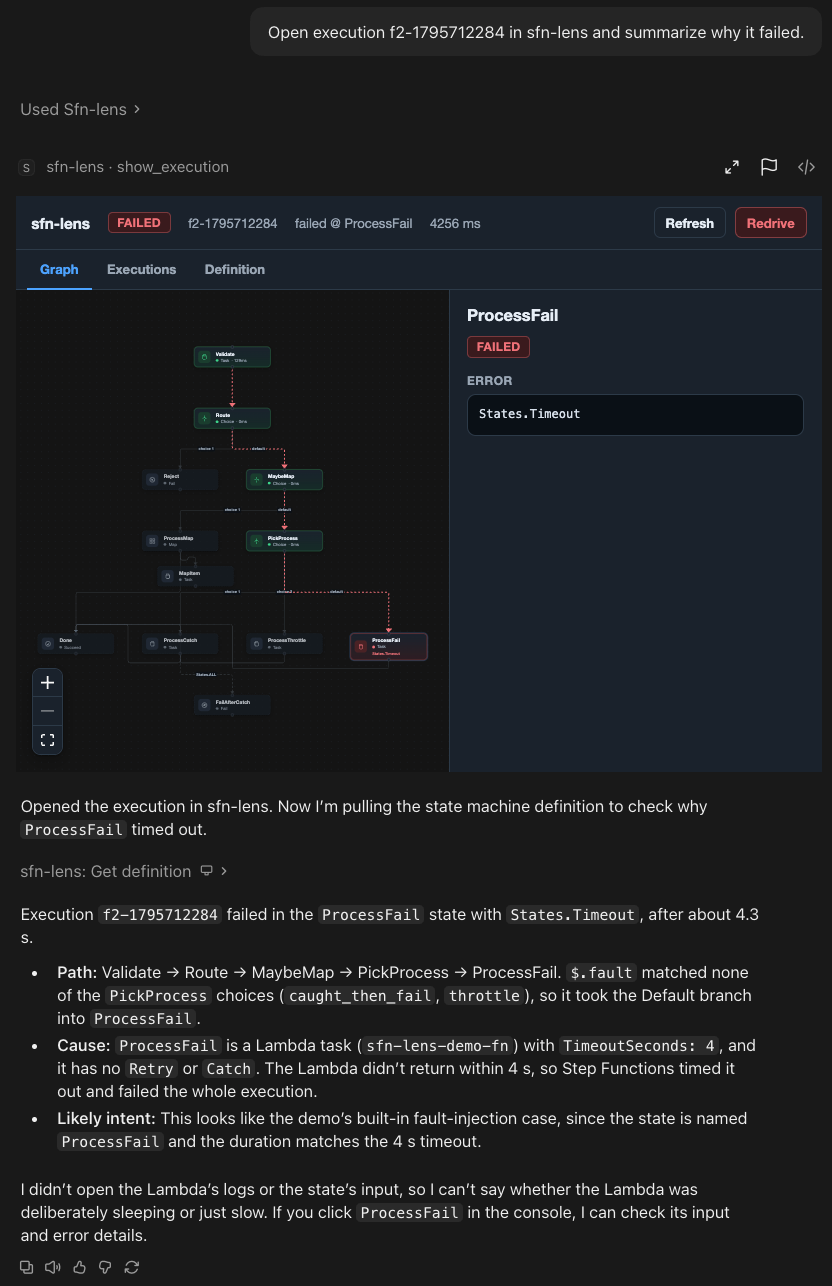
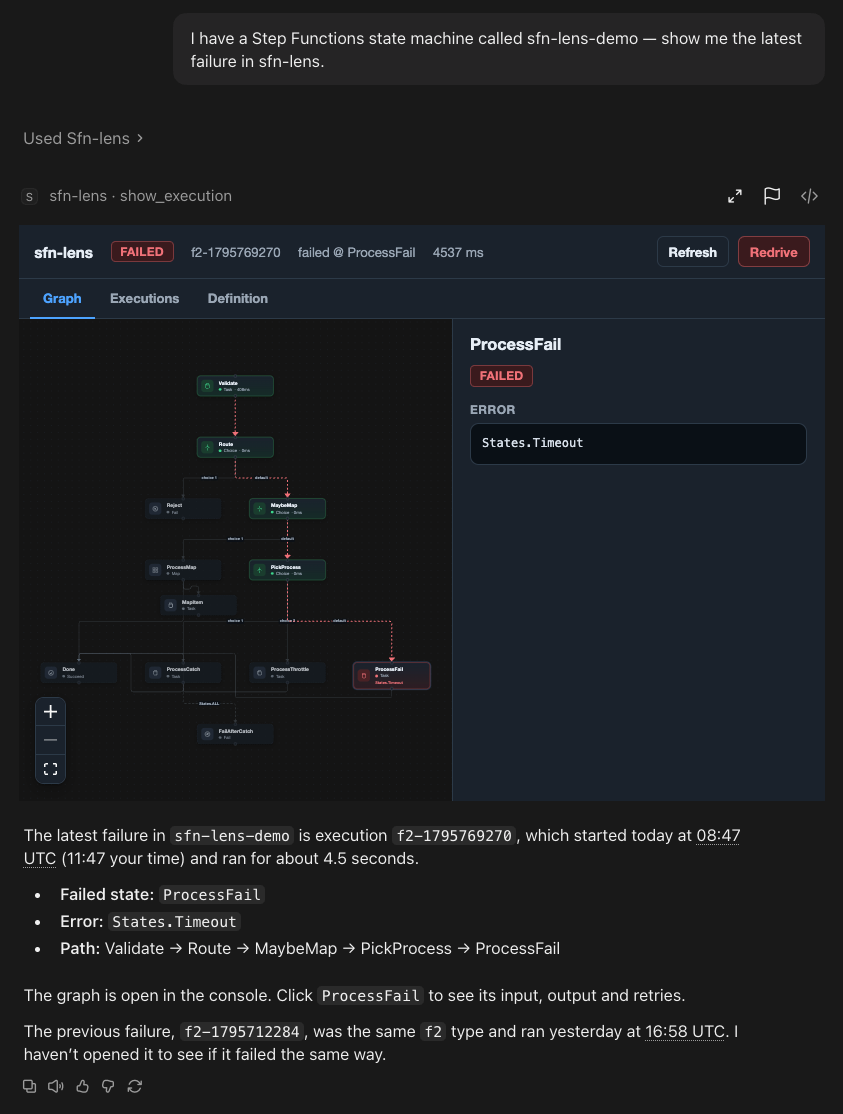
Use a natural latest-failure prompt for the graph screenshot.
README sample ask matches the in-chat shot; UI and reply both cover f2 ProcessFail timeout.

diff --git a/README.md b/README.md
@@ -53,7 +53,7 @@ In `~/Library/Application Support/Claude/claude_desktop_config.json`:
 
 Quit Claude fully and reopen. Then try:
 
-> Show me the latest failed Step Functions run on my account — use sfn-lens so I can see the graph.
+> I have a Step Functions state machine called sfn-lens-demo — show me the latest failure in sfn-lens.
 
 ### Redrive (optional)
 
